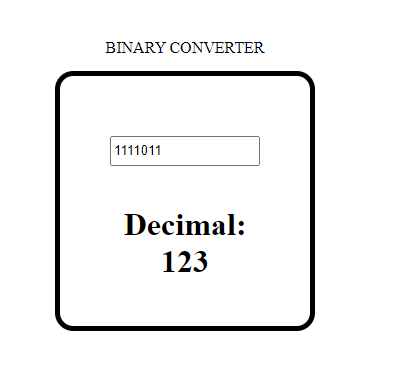
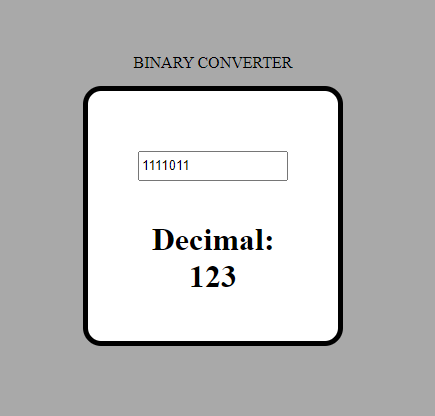
changed background

diff --git a/style.css b/style.css
@@ -1,3 +1,6 @@
+body {
+    background-color: darkgray;
+}
 .range {
     position: relative;
     top: 60px;
@@ -14,6 +17,7 @@
     border: 5px solid black;
     border-radius: 7%;
     text-align: center;
+    background-color: white;
 }
 .tittle {
     width: 260px;
